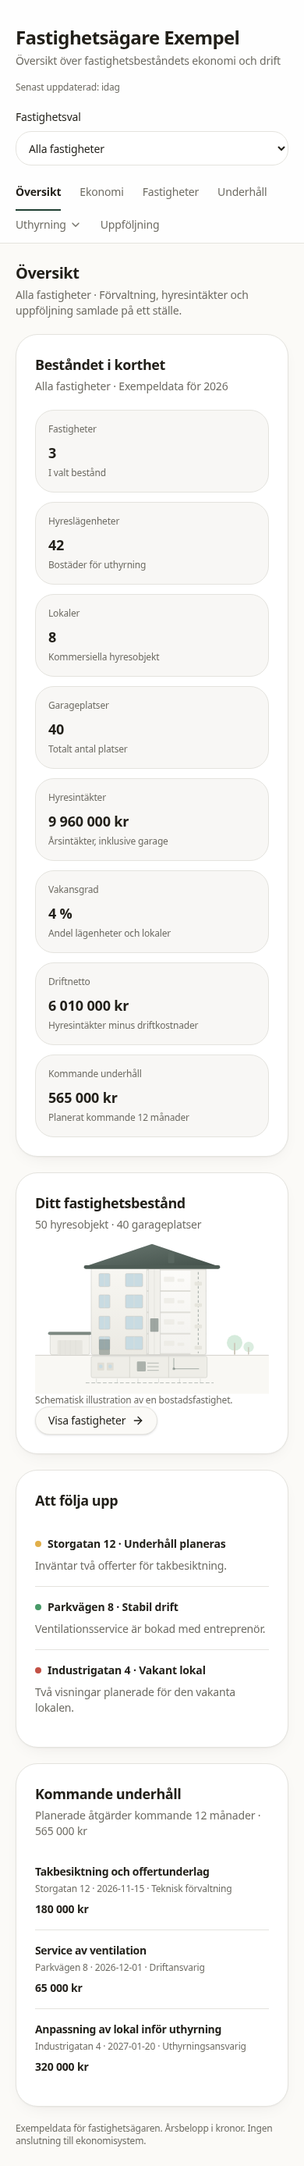
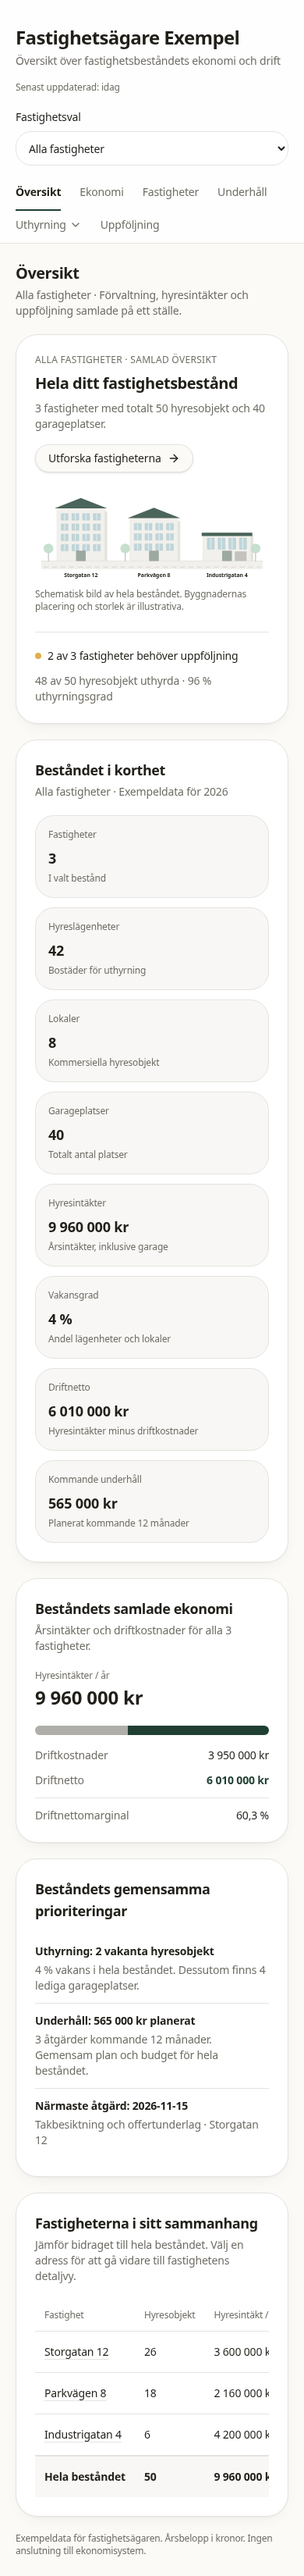
Visa hela beståndet i en samlad översikt

Changed region(s): [[0.0308, 0.0, 0.8923, 0.9917], [0.7692, 0.062, 0.8615, 0.093], [0.8615, 0.0, 0.9231, 0.031]]

diff --git a/src/components/PortfolioOverview.tsx b/src/components/PortfolioOverview.tsx
@@ -1,0 +1,292 @@
+import { Link } from "@tanstack/react-router";
+import { ArrowRight } from "lucide-react";
+import { Button } from "@/components/ui/button";
+import { KpiSection } from "@/components/brf/KpiSection";
+import { StatusDot } from "@/components/brf/StatusDot";
+import { useProperties } from "@/components/PropertyProvider";
+import { money, percent, summarizeProperties, type Property } from "@/data/portfolio";
+
+const card = "rounded-3xl border border-border bg-card p-6 shadow-card sm:p-7";
+
+/** Alla fastigheter i samma schematiska stadsbild, på en gemensam markyta. */
+function PortfolioIllustration({ items }: { items: Property[] }) {
+  return (
+    <svg
+      viewBox="0 0 960 370"
+      role="img"
+      aria-label={`Hela fastighetsbeståndet: ${items.map((p) => p.address).join(", ")}`}
+      className="mt-6 h-auto w-full"
+    >
+      <path d="M25 286H935V320H25Z" fill="var(--secondary)" />
+      <path d="M25 286H935" stroke="var(--border)" strokeWidth="3" />
+      <path
+        d="M35 311H925"
+        stroke="var(--muted-foreground)"
+        strokeWidth="2"
+        strokeDasharray="20 15"
+        opacity=".3"
+      />
+      {items.map((p, index) => {
+        const commercial = p.apartments === 0;
+        const x = 90 + index * 300;
+        const top = commercial ? 170 : index === 0 ? 70 : 110;
+        const floors = commercial ? 1 : index === 0 ? 4 : 3;
+        return (
+          <g key={p.id}>
+            <rect
+              x={x + 8}
+              y={top + 12}
+              width="198"
+              height={274 - top}
+              rx="3"
+              fill="var(--border)"
+            />
+            <rect
+              x={x}
+              y={top}
+              width="196"
+              height={286 - top}
+              rx="3"
+              fill="var(--secondary)"
+              stroke="var(--border)"
+              strokeWidth="2"
+            />
+            <path
+              d={
+                commercial
+                  ? `M${x - 6} ${top}h208v14H${x - 6}Z`
+                  : `M${x - 10} ${top}L${x + 98} ${top - 42}L${x + 206} ${top}Z`
+              }
+              fill="var(--primary)"
+              opacity=".8"
+            />
+            {Array.from({ length: floors }, (_, row) =>
+              Array.from({ length: 4 }, (_, column) => (
+                <g key={`${row}-${column}`}>
+                  <rect
+                    x={x + 17 + column * 44}
+                    y={top + 22 + row * 42}
+                    width="29"
+                    height={commercial ? 46 : 27}
+                    rx="2"
+                    fill="oklch(0.86 0.025 210)"
+                    stroke="oklch(0.78 0.02 210)"
+                  />
+                  <path
+                    d={`M${x + 31 + column * 44} ${top + 22 + row * 42}v${commercial ? 46 : 27}`}
+                    stroke="var(--surface)"
+                    strokeWidth="2"
+                  />
+                </g>
+              )),
+            )}
+            <rect
+              x={x + 78}
+              y="244"
+              width="40"
+              height="42"
+              rx="2"
+              fill="var(--primary)"
+              opacity=".4"
+            />
+            {commercial && (
+              <path d={`M${x + 130} 247h48v39h-48Z`} fill="var(--muted-foreground)" opacity=".35" />
+            )}
+            <text
+              x={x + 98}
+              y="352"
+              textAnchor="middle"
+              fontSize="22"
+              fontWeight="600"
+              fill="var(--foreground)"
+            >
+              {p.address}
+            </text>
+          </g>
+        );
+      })}
+      {[55, 370, 905].map((x) => (
+        <g key={x}>
+          <path d={`M${x} 286v-45`} stroke="var(--muted-foreground)" strokeWidth="4" opacity=".4" />
+          <circle cx={x} cy="235" r="20" fill="oklch(0.88 0.035 155)" />
+        </g>
+      ))}
+    </svg>
+  );
+}
+
+export function PortfolioOverview() {
+  const { items, summary: s, selectProperty } = useProperties();
+  const units = s.apartments + s.premises;
+  const rented = units - s.vacant;
+  const attention = items.filter((p) => p.status === "watch" || p.status === "alert").length;
+  const nextAction = [...items].sort((a, b) => a.due.localeCompare(b.due))[0];
+  const costsShare = s.rent > 0 ? (s.operatingCosts / s.rent) * 100 : 0;
+  return (
+    <>
+      <section className={card} aria-labelledby="portfolio-heading">
+        <div className="flex flex-col justify-between gap-4 sm:flex-row sm:items-start">
+          <div>
+            <p className="text-xs font-medium uppercase tracking-wide text-muted-foreground">
+              Alla fastigheter · Samlad översikt
+            </p>
+            <h2 id="portfolio-heading" className="mt-2 text-xl font-semibold">
+              Hela ditt fastighetsbestånd
+            </h2>
+            <p className="mt-2 text-sm text-muted-foreground">
+              {s.count} fastigheter med totalt {units} hyresobjekt och {s.garages} garageplatser.
+            </p>
+          </div>
+          <Button asChild variant="outline" className="self-start rounded-xl">
+            <Link to="/fastigheten">
+              Utforska fastigheterna <ArrowRight aria-hidden="true" />
+            </Link>
+          </Button>
+        </div>
+        <PortfolioIllustration items={items} />
+        <p className="mt-2 text-xs text-muted-foreground">
+          Schematisk bild av hela beståndet. Byggnadernas placering och storlek är illustrativa.
+        </p>
+        <div className="mt-6 flex flex-col justify-between gap-3 border-t border-border pt-5 sm:flex-row">
+          <p className="flex items-center gap-2 text-sm">
+            <StatusDot status={attention > 0 ? "watch" : "good"} />
+            {attention > 0
+              ? `${attention} av ${s.count} fastigheter behöver uppföljning`
+              : "Stabil drift i hela beståndet"}
+          </p>
+          <p className="text-sm text-muted-foreground">
+            {rented} av {units} hyresobjekt uthyrda · {percent(units ? (rented / units) * 100 : 0)}{" "}
+            uthyrningsgrad
+          </p>
+        </div>
+      </section>
+
+      <KpiSection />
+      <div className="grid gap-5 lg:grid-cols-2">
+        <section className={card} aria-labelledby="portfolio-economy">
+          <h2 id="portfolio-economy" className="text-lg font-semibold">
+            Beståndets samlade ekonomi
+          </h2>
+          <p className="mt-1 text-sm text-muted-foreground">
+            Årsintäkter och driftkostnader för alla {s.count} fastigheter.
+          </p>
+          <p className="mt-5 text-xs text-muted-foreground">Hyresintäkter / år</p>
+          <p className="mt-1 text-2xl font-semibold">{money(s.rent)}</p>
+          <div
+            className="mt-5 flex h-3 overflow-hidden rounded-full bg-secondary"
+            aria-hidden="true"
+          >
+            <div className="bg-muted-foreground/50" style={{ width: `${costsShare}%` }} />
+            <div className="bg-primary" style={{ width: `${100 - costsShare}%` }} />
+          </div>
+          <dl className="mt-4 space-y-3 text-sm">
+            <div className="flex flex-wrap justify-between gap-2">
+              <dt className="text-muted-foreground">Driftkostnader</dt>
+              <dd className="font-medium">{money(s.operatingCosts)}</dd>
+            </div>
+            <div className="flex flex-wrap justify-between gap-2">
+              <dt className="text-muted-foreground">Driftnetto</dt>
+              <dd className="font-semibold text-primary">{money(s.net)}</dd>
+            </div>
+            <div className="flex flex-wrap justify-between gap-2 border-t border-border pt-3">
+              <dt className="text-muted-foreground">Driftnettomarginal</dt>
+              <dd className="font-medium">{percent(s.rent ? (s.net / s.rent) * 100 : 0)}</dd>
+            </div>
+          </dl>
+        </section>
+        <section className={card} aria-labelledby="portfolio-followup">
+          <h2 id="portfolio-followup" className="text-lg font-semibold">
+            Beståndets gemensamma prioriteringar
+          </h2>
+          <ul className="mt-4 divide-y divide-border text-sm">
+            <li className="py-3">
+              <p className="font-semibold">Uthyrning: {s.vacant} vakanta hyresobjekt</p>
+              <p className="mt-1 text-muted-foreground">
+                {percent(s.vacancy)} vakans i hela beståndet. Dessutom finns {s.vacantGarages}{" "}
+                lediga garageplatser.
+              </p>
+            </li>
+            <li className="py-3">
+              <p className="font-semibold">Underhåll: {money(s.maintenance)} planerat</p>
+              <p className="mt-1 text-muted-foreground">
+                {items.length} åtgärder kommande 12 månader. Gemensam plan och budget för hela
+                beståndet.
+              </p>
+            </li>
+            {nextAction && (
+              <li className="py-3">
+                <p className="font-semibold">Närmaste åtgärd: {nextAction.due}</p>
+                <p className="mt-1 text-muted-foreground">
+                  {nextAction.action} · {nextAction.address}
+                </p>
+              </li>
+            )}
+          </ul>
+        </section>
+      </div>
+
+      <section className={card} aria-labelledby="portfolio-comparison">
+        <h2 id="portfolio-comparison" className="text-lg font-semibold">
+          Fastigheterna i sitt sammanhang
+        </h2>
+        <p className="mt-1 text-sm text-muted-foreground">
+          Jämför bidraget till hela beståndet. Välj en adress för att gå vidare till fastighetens
+          detaljvy.
+        </p>
+        <div className="mt-5 overflow-x-auto">
+          <table className="w-full text-left text-sm">
+            <caption className="sr-only">
+              Fastigheternas hyresobjekt, hyresintäkter, vakans och driftnetto, med en summering av
+              hela beståndet.
+            </caption>
+            <thead>
+              <tr>
+                {["Fastighet", "Hyresobjekt", "Hyresintäkt / år", "Vakans", "Driftnetto"].map(
+                  (label) => (
+                    <th
+                      key={label}
+                      scope="col"
+                      className="whitespace-nowrap px-3 py-3 text-xs font-medium text-muted-foreground"
+                    >
+                      {label}
+                    </th>
+                  ),
+                )}
+              </tr>
+            </thead>
+            <tbody>
+              {items.map((p) => (
+                <tr key={p.id} className="border-t border-border">
+                  <th scope="row" className="px-3 py-4">
+                    <button
+                      type="button"
+                      onClick={() => selectProperty(p.id)}
+                      className="whitespace-nowrap rounded text-left font-medium underline decoration-border underline-offset-4 hover:text-primary focus-visible:outline-2 focus-visible:outline-ring"
+                    >
+                      {p.address}
+                    </button>
+                  </th>
+                  <td className="px-3">{p.apartments + p.premises}</td>
+                  <td className="whitespace-nowrap px-3">{money(p.rent)}</td>
+                  <td className="px-3">{percent(summarizeProperties([p]).vacancy)}</td>
+                  <td className="whitespace-nowrap px-3">{money(p.rent - p.operatingCosts)}</td>
+                </tr>
+              ))}
+            </tbody>
+            <tfoot>
+              <tr className="border-t-2 border-border bg-secondary/50 font-semibold">
+                <th scope="row" className="whitespace-nowrap px-3 py-4">
+                  Hela beståndet
+                </th>
+                <td className="px-3">{units}</td>
+                <td className="whitespace-nowrap px-3">{money(s.rent)}</td>
+                <td className="px-3">{percent(s.vacancy)}</td>
+                <td className="whitespace-nowrap px-3">{money(s.net)}</td>
+              </tr>
+            </tfoot>
+          </table>
+        </div>
+      </section>
+    </>
+  );
+}

diff --git a/src/components/PortfolioPage.tsx b/src/components/PortfolioPage.tsx
@@ -1,3 +1,4 @@
+import { PortfolioOverview } from "@/components/PortfolioOverview";
 import { Link } from "@tanstack/react-router";
 import { Building2, ArrowRight } from "lucide-react";
 import { SiteHeader } from "@/components/brf/SiteHeader";
@@ -59,7 +60,7 @@ function PropertyCard({ property: p }: { property: Property }) {
   );
 }
 export function PortfolioPage({ view }: { view: View }) {
-  const { items, scope, summary: s } = useProperties();
+  const { items, scope, summary: s, selectedId, selectProperty } = useProperties();
   return (
     <div className="min-h-screen bg-background">
       <SiteHeader />
@@ -73,7 +74,7 @@ export function PortfolioPage({ view }: { view: View }) {
             {scope} · Förvaltning, hyresintäkter och uppföljning samlade på ett ställe.
           </p>
         </div>
-        {(view === "overview" || view === "economy") && <KpiSection />}
+        {(view === "economy" || (view === "overview" && selectedId !== "all")) && <KpiSection />}
         {view === "properties" && (
           <>
             <p className="text-sm text-muted-foreground">
@@ -86,11 +87,15 @@ export function PortfolioPage({ view }: { view: View }) {
             </div>
           </>
         )}
-        {view === "overview" && (
+        {view === "overview" && selectedId === "all" && <PortfolioOverview />}
+        {view === "overview" && selectedId !== "all" && (
           <>
+            <Button variant="outline" className="rounded-xl" onClick={() => selectProperty("all")}>
+              Visa hela beståndet
+            </Button>
             <div className="grid gap-5 lg:grid-cols-5">
               <section className={`${card} lg:col-span-3`}>
-                <h2 className="text-lg font-semibold">Ditt fastighetsbestånd</h2>
+                <h2 className="text-lg font-semibold">{scope}</h2>
                 <p className="mt-1 text-sm text-muted-foreground">
                   {s.apartments + s.premises} hyresobjekt · {s.garages} garageplatser
                 </p>
@@ -100,7 +105,7 @@ export function PortfolioPage({ view }: { view: View }) {
                 </p>
                 <Button asChild variant="outline" className="rounded-xl">
                   <Link to="/fastigheten">
-                    Visa fastigheter <ArrowRight aria-hidden="true" />
+                    Byt fastighet <ArrowRight aria-hidden="true" />
                   </Link>
                 </Button>
               </section>

diff --git a/docs/fastighetsagarversion.md b/docs/fastighetsagarversion.md
@@ -16,6 +16,12 @@ Kontroller:
 
 Projektets `vite preview` söker efter `dist/server/server.js`, medan Nitro-bygget skriver till `.output`. Webbläsarkontrollen gjordes därför mot utvecklingsservern efter separat godkänt produktionsbygge.
 
+## Samlad beståndsöversikt
+
+När Alla fastigheter är valt börjar Översikt med en gemensam bild av alla tre fastigheter på samma markyta. Därefter följer beståndets summerade nyckeltal, samlad ekonomi, uthyrningsläge och prioriteringar. Fastigheterna jämförs i en gemensam tabell med totalrad, i stället för separata fastighetskort på översikten. Adresserna i tabellen öppnar detaljvyn, som har en knapp för att återgå till hela beståndet. Fastighetskorten finns kvar på sidan Fastigheter.
+
+Webbläsarkontrollen verifierar dessutom alla tre adresser i samma bild, gemensam totalrad, 48 av 50 uthyrda hyresobjekt, 2 av 3 fastigheter som behöver uppföljning samt växling mellan bestånd och detaljvy.
+
 ## Skärmbilder
 
 ![Översikt](screenshots/oversikt.png)
